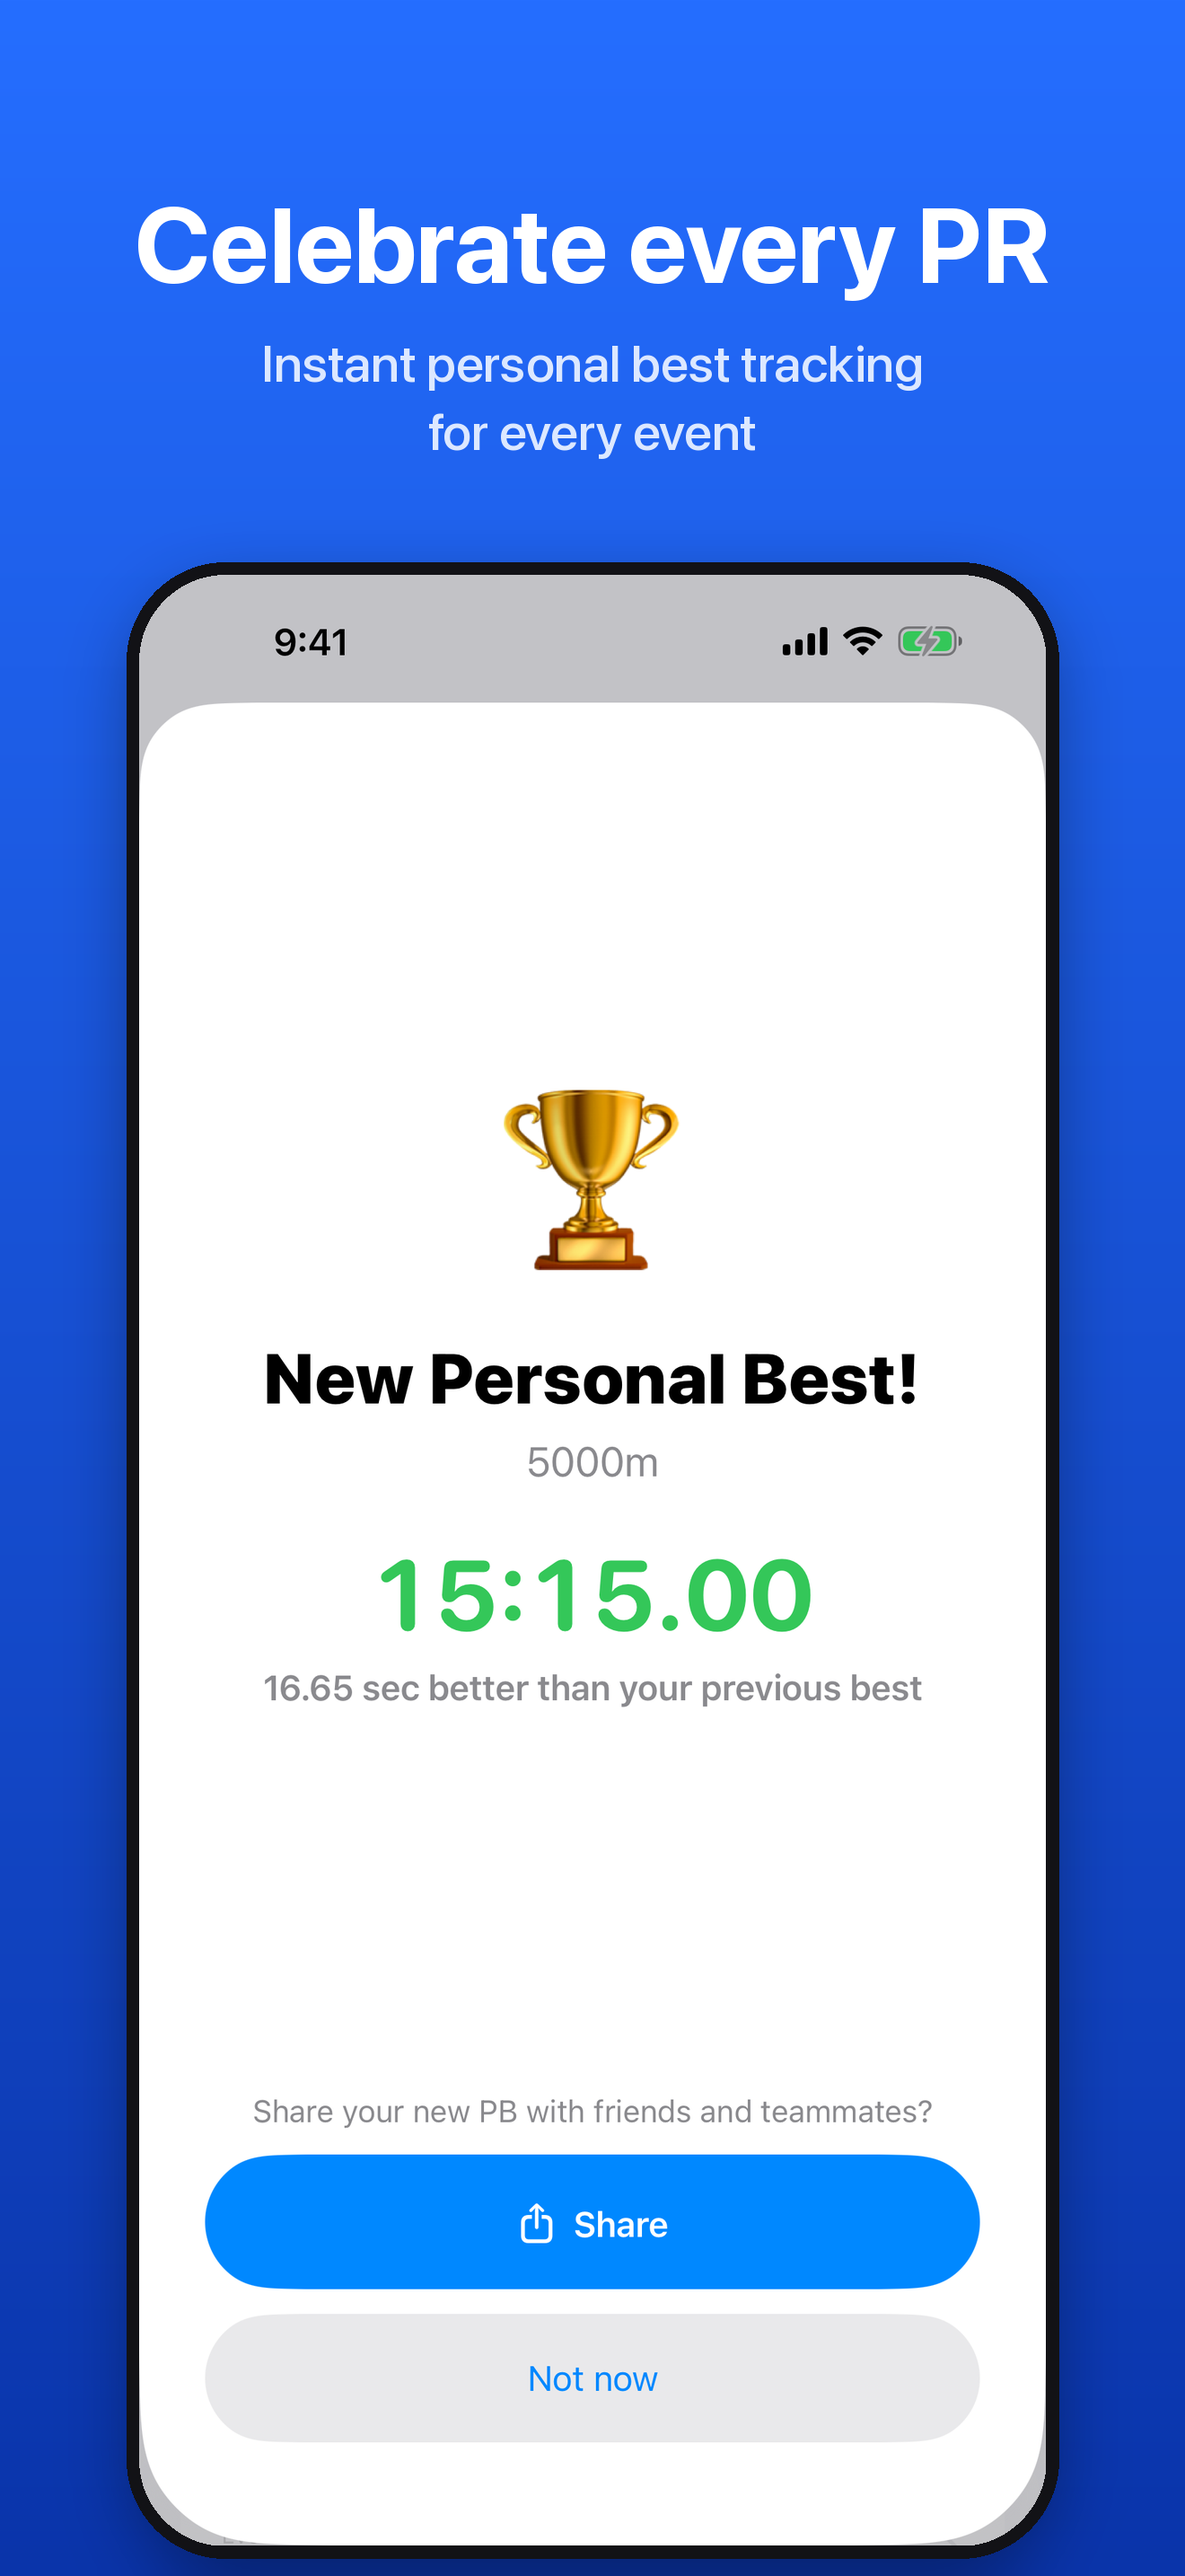
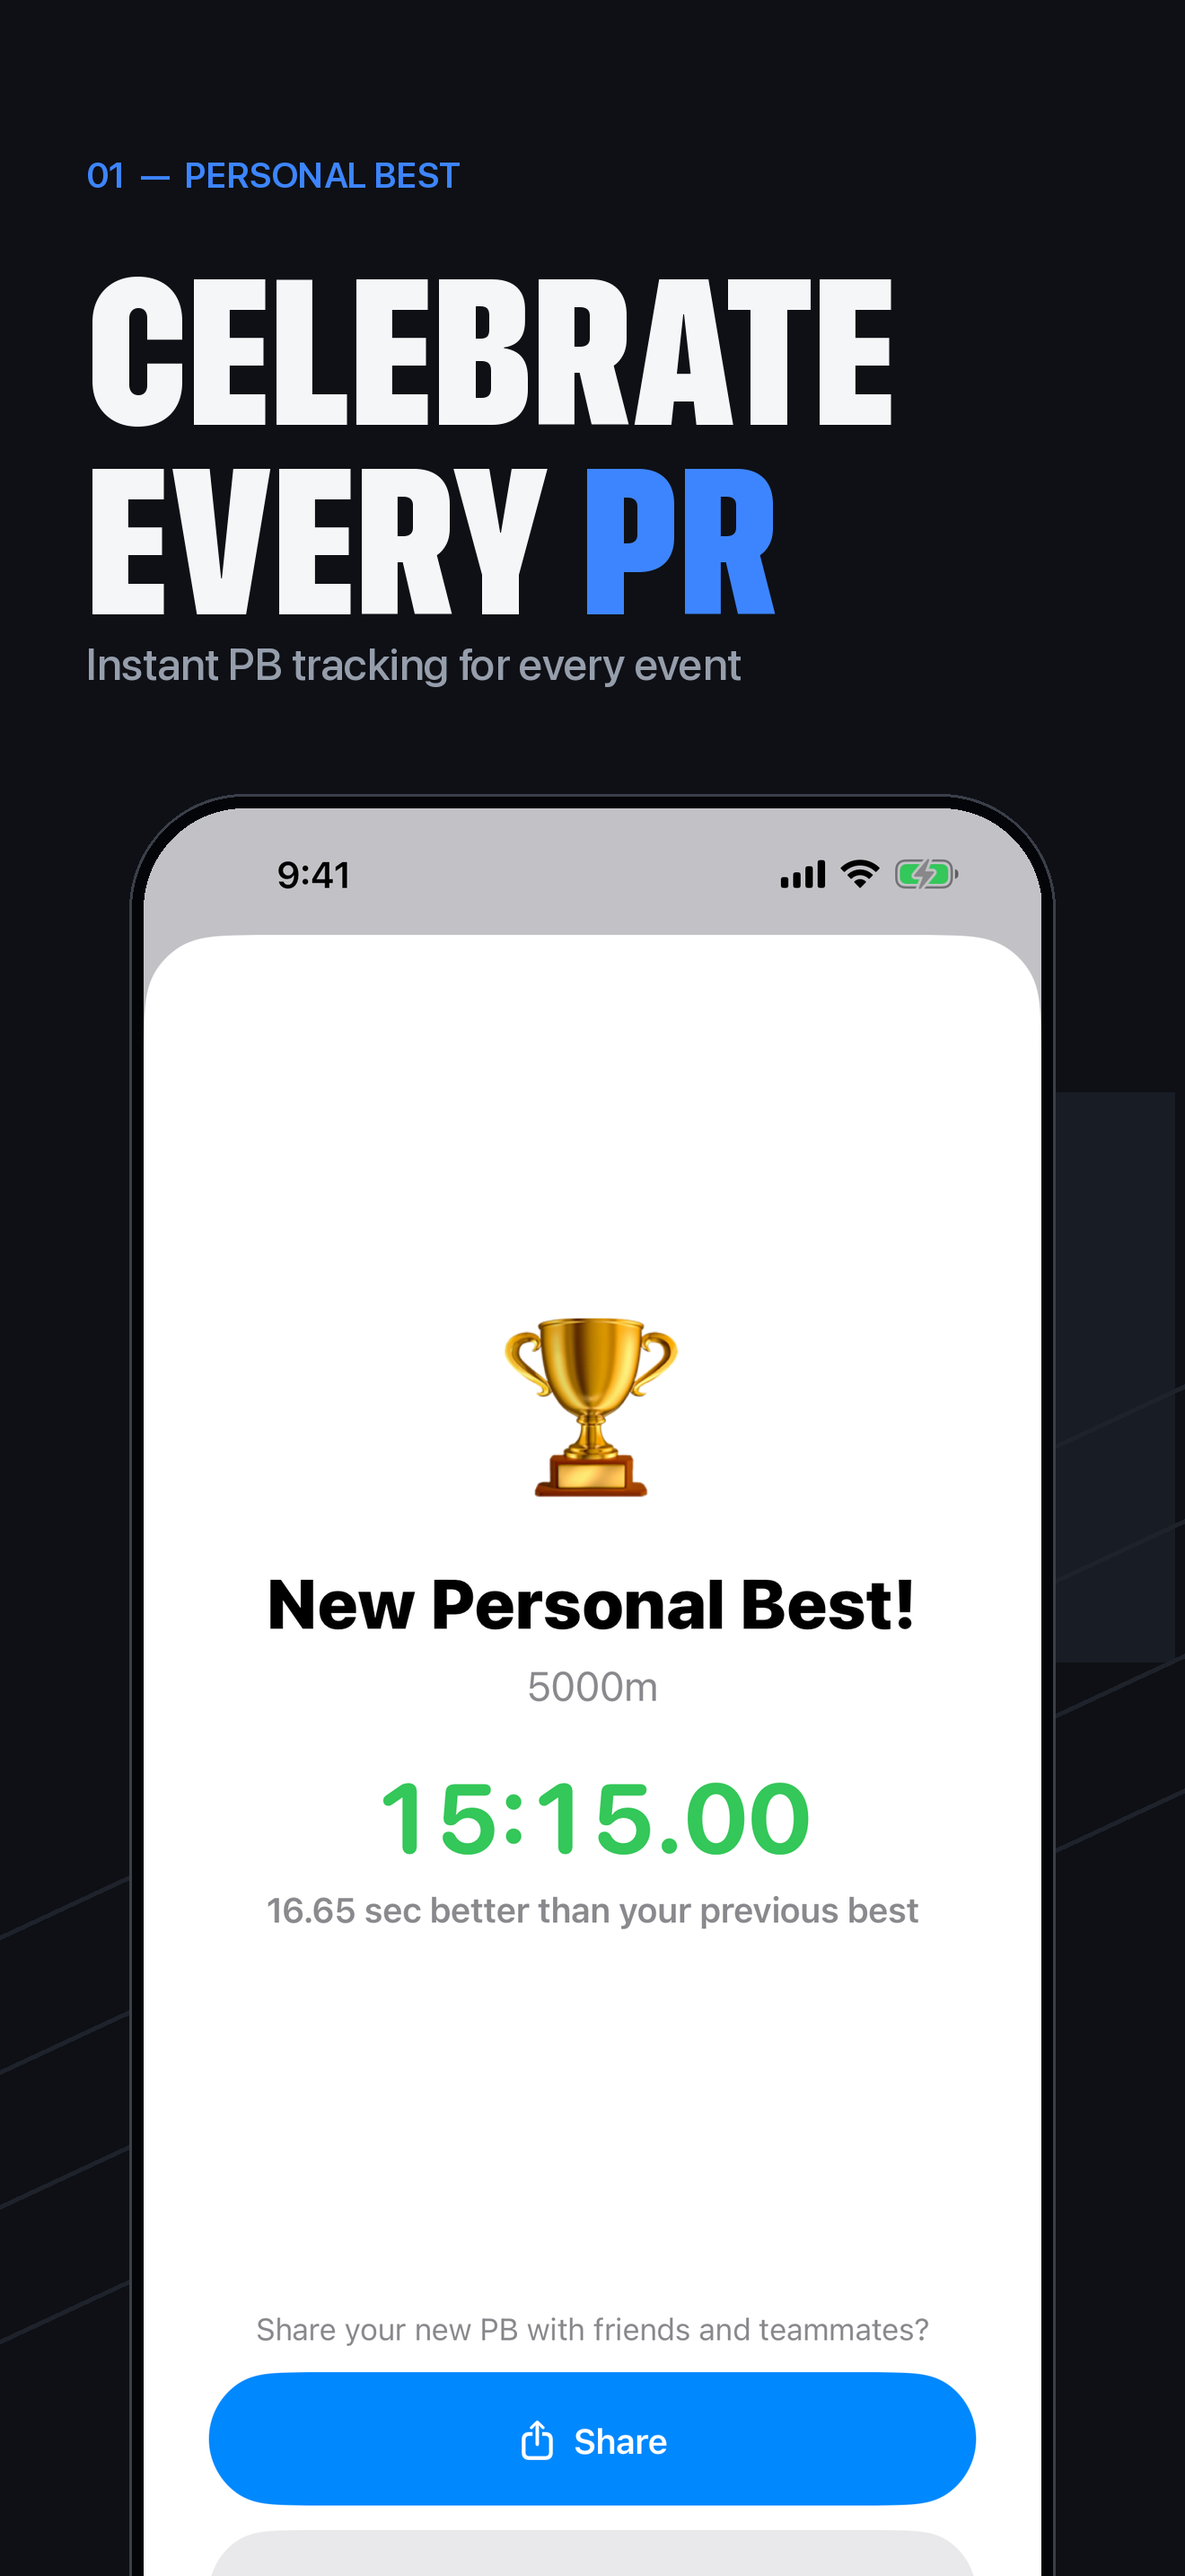
feat: 英語版のアプリ名を Bell Lap に変更、ストア用スクリーンショットをダークデザインに刷新
- 英語環境のホーム画面名・アプリ内表示名を RikuLog から Bell Lap に変更（日本語は陸ログのまま）
- ストア用スクリーンショットをスポーツ広告風のダークデザインに作り直し
- ビルド番号を 2026.11.29 に更新

diff --git a/AppStore/tools/compose_screenshots.py b/AppStore/tools/compose_screenshots.py
@@ -4,110 +4,136 @@ usage: python3 -I compose_screenshots.py <work_dir> [en|ja]
   <work_dir>/shots/<screen>.png を読み、<work_dir>/store/<screen>.png に書き出す
 """
 import sys
-from PIL import Image, ImageDraw, ImageFilter, ImageFont
+from PIL import Image, ImageDraw, ImageFont
 
 S = sys.argv[1]
 LANG = sys.argv[2] if len(sys.argv) > 2 else "en"
 W, H = 1320, 2868
-FONT = "/System/Library/Fonts/SFNS.ttf"
-JA_FONT_BOLD = "/System/Library/Fonts/ヒラギノ角ゴシック W6.ttc"
-JA_FONT_REGULAR = "/System/Library/Fonts/ヒラギノ角ゴシック W3.ttc"
 
-SLIDES_JA = [
-    ("pb", "自己ベストをお祝い", "記録を入れるだけで\n自己ベスト更新を自動でお知らせ"),
-    ("records", "全レース、全ラップを記録", "トラック・ロード・跳躍・投擲を\nひとつのアプリで"),
-    ("profile", "走力をVDOTで見える化", "実際のレース結果から\n走力と練習ペースを算出"),
-    ("calculator", "目標ペースを一瞬で", "距離・タイム・ペースを相互計算\nラップごとの通過タイムも"),
-    ("share", "記録をカードでシェア", "SNS映えする記録カードを\nワンタップで作成"),
-    ("treadmill", "トレッドミル換算", "km/h と /km を\nワンタップで切り替え"),
-]
+SF = "/System/Library/Fonts/SFNS.ttf"
+JA_BOLD = "/System/Library/Fonts/ヒラギノ角ゴシック W6.ttc"
+JA_REGULAR = "/System/Library/Fonts/ヒラギノ角ゴシック W3.ttc"
 
-SLIDES = [
-    ("pb", "Celebrate every PR", "Instant personal best tracking\nfor every event"),
-    ("records", "Every race. Every split.", "Track, road, jumps and throws\nin one clean log"),
-    ("profile", "Know your VDOT", "Fitness score and training paces\nfrom your real races"),
-    ("calculator", "Pace it perfectly", "Solve for distance, time or pace\nwith lap-by-lap splits"),
-    ("share", "Share your result", "Beautiful race cards\nfor social media"),
-    ("treadmill", "Treadmill converter", "Switch between km/h and min/km\nin one tap"),
-]
+BG = (14, 16, 21)
+LANE = (30, 34, 43)
+INDEX = (24, 28, 36)
+WHITE = (245, 246, 248)
+MUTED = (150, 158, 172)
+ACCENT = (61, 133, 255)
+MARGIN = 96
 
-TOP = (37, 110, 255)
-BOTTOM = (10, 52, 170)
+# (画面, ラベル, 見出し, 強調する語, 説明)
+SLIDES = {
+    "en": [
+        ("pb", "PERSONAL BEST", "CELEBRATE\nEVERY PR", "PR", "Instant PB tracking for every event"),
+        ("records", "RACE LOG", "EVERY RACE.\nEVERY SPLIT.", "SPLIT.", "Track, road, jumps and throws in one log"),
+        ("profile", "VDOT", "KNOW YOUR\nVDOT", "VDOT", "Fitness score and training paces from real races"),
+        ("calculator", "PACE CALCULATOR", "PACE IT\nPERFECTLY", "PERFECTLY", "Distance, time or pace - with lap splits"),
+        ("share", "SHARE", "SHARE THE\nMOMENT", "MOMENT", "Race cards made for social media"),
+        ("treadmill", "TREADMILL", "TREADMILL\nTO TRACK", "TO TRACK", "Convert km/h and min/km in one tap"),
+    ],
+    "ja": [
+        ("pb", "PERSONAL BEST", "自己ベストを、\n祝おう。", "祝おう。", "記録を入れるだけで、更新を自動でお知らせ"),
+        ("records", "RACE LOG", "全レース、\n全ラップ。", "全ラップ。", "トラック・ロード・跳躍・投擲をひとつに"),
+        ("profile", "VDOT", "走力を、\nVDOTで。", "VDOTで。", "レース結果から走力と練習ペースを算出"),
+        ("calculator", "PACE CALCULATOR", "目標ペースを、\n一瞬で。", "一瞬で。", "距離・タイム・ペースを相互計算"),
+        ("share", "SHARE", "その記録、\nシェアしよう。", "シェアしよう。", "SNS映えする記録カードをワンタップで"),
+        ("treadmill", "TREADMILL", "トレッドミルも、\nワンタップ。", "ワンタップ。", "km/h と /km をすぐに換算"),
+    ],
+}
 
 
-def font(size, weight):
-    if LANG == "ja":
-        path = JA_FONT_BOLD if weight == "Bold" else JA_FONT_REGULAR
-        return ImageFont.truetype(path, size)
-    f = ImageFont.truetype(FONT, size)
-    try:
-        f.set_variation_by_name(weight)
-    except Exception:
-        pass
+def sf(size, style):
+    f = ImageFont.truetype(SF, size)
+    f.set_variation_by_name(style)
     return f
 
 
-def gradient():
-    bg = Image.new("RGB", (W, H))
-    px = bg.load()
-    for y in range(H):
-        t = y / (H - 1)
-        c = tuple(int(TOP[i] + (BOTTOM[i] - TOP[i]) * t) for i in range(3))
-        for x in range(W):
-            px[x, y] = c
-    return bg
+def headline_font(size):
+    if LANG == "ja":
+        return ImageFont.truetype(JA_BOLD, size)
+    return sf(size, "Compressed Black")
 
 
-def rounded(im, radius):
-    mask = Image.new("L", im.size, 0)
-    ImageDraw.Draw(mask).rounded_rectangle((0, 0, *im.size), radius=radius, fill=255)
-    out = im.convert("RGBA")
-    out.putalpha(mask)
-    return out
+def body_font(size):
+    if LANG == "ja":
+        return ImageFont.truetype(JA_REGULAR, size)
+    return sf(size, "Medium")
 
 
-def centered(draw, y, text, f, fill, spacing):
+def background(index):
+    im = Image.new("RGB", (W, H), BG)
+    d = ImageDraw.Draw(im)
+    # 大きな通し番号（背景の飾り）
+    num = f"{index:02d}"
+    nf = sf(900, "Compressed Black")
+    nw = d.textlength(num, font=nf)
+    d.text((W - nw + 40, 980), num, font=nf, fill=INDEX)
+    # トラックのレーンを思わせる斜線
+    for i in range(4):
+        off = i * 150
+        d.line([(-200, 2250 + off), (W + 200, 1450 + off)], fill=LANE, width=5)
+    return im
+
+
+def rounded_mask(size, radius):
+    mask = Image.new("L", size, 0)
+    ImageDraw.Draw(mask).rounded_rectangle((0, 0, *size), radius=radius, fill=255)
+    return mask
+
+
+def draw_headline(d, text, accent, y):
+    size = 230 if LANG == "en" else 132
     lines = text.split("\n")
+    f = headline_font(size)
+    while max(d.textlength(l, font=f) for l in lines) > W - MARGIN * 2 and size > 60:
+        size -= 6
+        f = headline_font(size)
+    leading = int(size * (0.92 if LANG == "en" else 1.18))
     for line in lines:
-        w = draw.textlength(line, font=f)
-        draw.text(((W - w) / 2, y), line, font=f, fill=fill)
-        y += f.size + spacing
+        x = MARGIN
+        if accent and accent in line:
+            head, tail = line.split(accent, 1)
+            for part, color in ((head, WHITE), (accent, ACCENT), (tail, WHITE)):
+                if part:
+                    d.text((x, y), part, font=f, fill=color)
+                    x += d.textlength(part, font=f)
+        else:
+            d.text((x, y), line, font=f, fill=WHITE)
+        y += leading
     return y
 
 
-base = gradient()
-title_font = font(108 if LANG == "ja" else 118, "Bold")
-sub_font = font(54 if LANG == "ja" else 58, "Medium")
+def compose(index, screen, label, title, accent, sub):
+    canvas = background(index)
+    d = ImageDraw.Draw(canvas)
 
-for name, title, subtitle in (SLIDES_JA if LANG == "ja" else SLIDES):
-    canvas = base.copy().convert("RGBA")
-    draw = ImageDraw.Draw(canvas)
+    # ラベル（例: 01 — PERSONAL BEST）
+    lf = sf(40, "Semibold")
+    d.text((MARGIN, 170), f"{index:02d}  —  {label}", font=lf, fill=ACCENT)
 
-    # 長い見出しは左右に余白が残るよう文字を縮める
-    tf = title_font
-    while draw.textlength(title, font=tf) > W - 160 and tf.size > 70:
-        tf = font(tf.size - 4, "Bold")
-    y = centered(draw, 200, title, tf, (255, 255, 255), 20)
-    centered(draw, y + 30, subtitle, sub_font, (220, 232, 255), 18)
+    y = draw_headline(d, title, accent, 250)
+    d.text((MARGIN, y + 36), sub, font=body_font(50 if LANG == "en" else 44), fill=MUTED)
 
-    shot = Image.open(f"{S}/shots/{name}.png").convert("RGB")
-    sw = 1010
+    # 端末（下端は画面外にはみ出させる）
+    shot = Image.open(f"{S}/shots/{screen}.png").convert("RGB")
+    sw = 1000
     sh = int(shot.height * sw / shot.width)
-    shot = rounded(shot.resize((sw, sh), Image.LANCZOS), 96)
+    shot = shot.resize((sw, sh), Image.LANCZOS)
+    bezel = 16
+    sx = (W - sw) // 2
+    sy = max(y + 200, 900)
 
-    sx, sy = (W - sw) // 2, 640
-    shadow = Image.new("RGBA", canvas.size, (0, 0, 0, 0))
-    ImageDraw.Draw(shadow).rounded_rectangle(
-        (sx, sy + 24, sx + sw, sy + sh + 24), radius=96, fill=(0, 0, 0, 110)
-    )
-    canvas = Image.alpha_composite(canvas, shadow.filter(ImageFilter.GaussianBlur(40)))
-    # 端末の縁取り
-    frame = Image.new("RGBA", canvas.size, (0, 0, 0, 0))
-    ImageDraw.Draw(frame).rounded_rectangle(
-        (sx - 14, sy - 14, sx + sw + 14, sy + sh + 14), radius=110, fill=(18, 18, 22, 255)
-    )
-    canvas = Image.alpha_composite(canvas, frame)
-    canvas.alpha_composite(shot, (sx, sy))
+    frame = Image.new("RGBA", (sw + bezel * 2, sh + bezel * 2), (0, 0, 0, 0))
+    fd = ImageDraw.Draw(frame)
+    fd.rounded_rectangle((0, 0, sw + bezel * 2 - 1, sh + bezel * 2 - 1), radius=128, fill=(4, 5, 8, 255),
+                         outline=(58, 63, 74, 255), width=3)
+    frame.paste(shot, (bezel, bezel), rounded_mask((sw, sh), 112))
+    canvas.paste(frame, (sx - bezel, sy - bezel), frame)
 
-    canvas.convert("RGB").save(f"{S}/store/{name}.png")
-    print("saved", name)
+    canvas.save(f"{S}/store/{screen}.png")
+    print("saved", screen)
+
+
+for i, slide in enumerate(SLIDES[LANG], 1):
+    compose(i, *slide)
